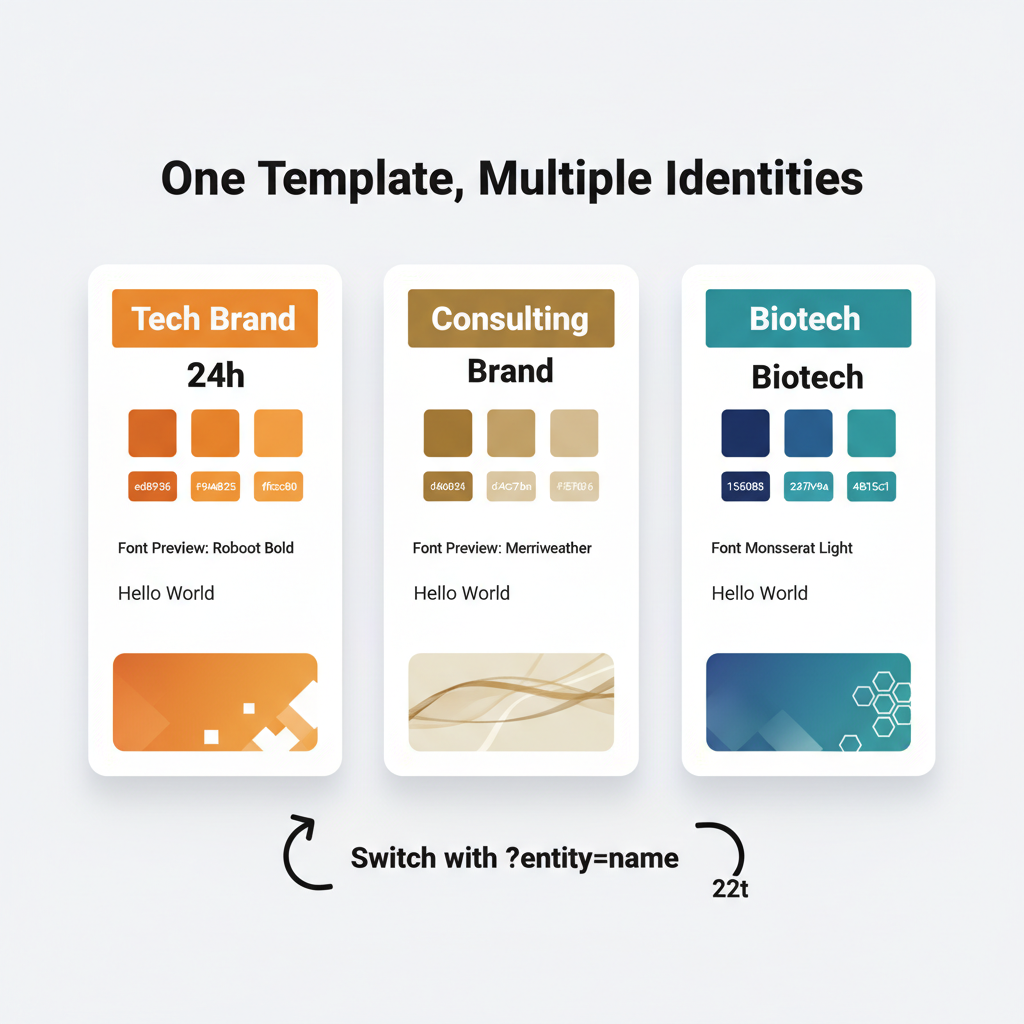
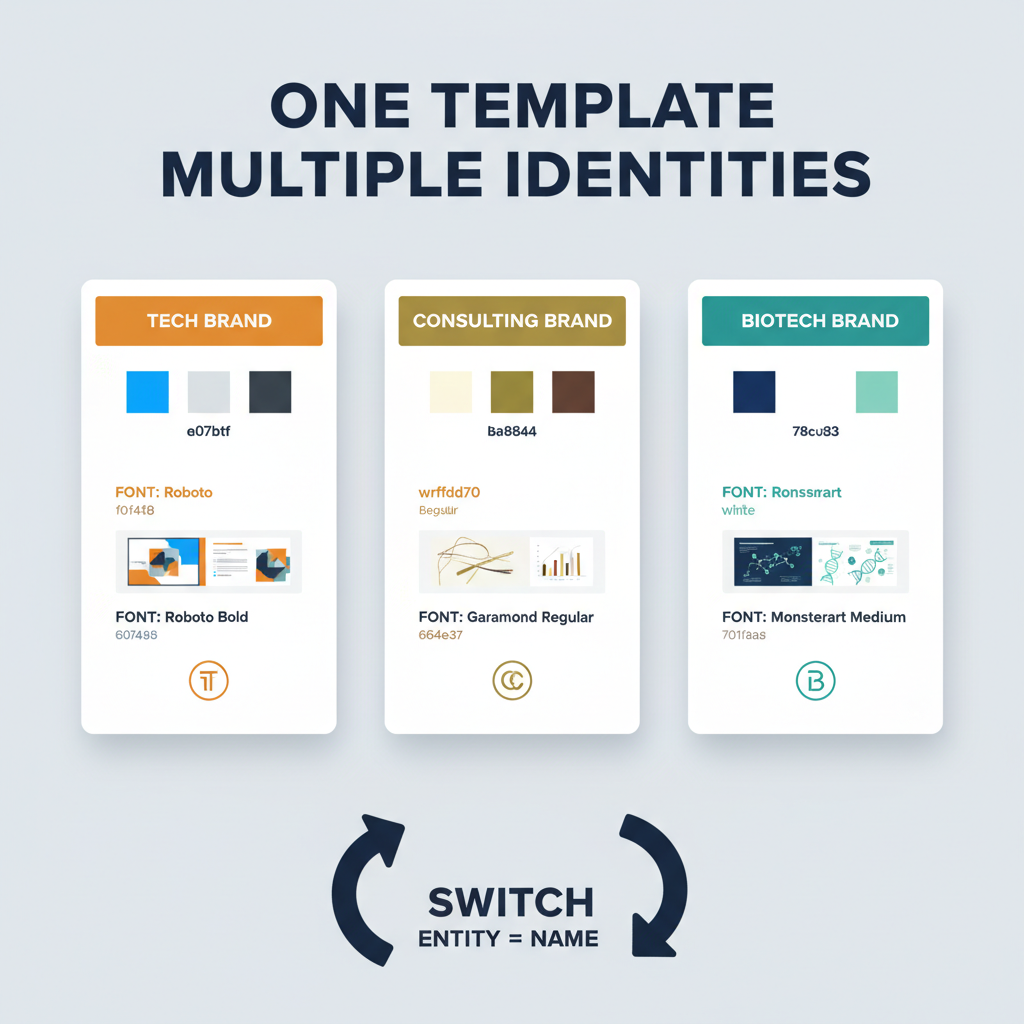
Add AI-generated images to skill-demo deck
- Add .env to gitignore for local API keys
- Regenerate workflow-diagram.png and brand-system.png
- Add "How It Works" slide with workflow diagram
- Add "Brand System" slide with multi-brand infographic

🤖 Generated with [Claude Code](https://claude.com/claude-code)

Changed region(s): [[0.0625, 0.25, 0.75, 0.9375], [0.625, 0.25, 0.9375, 0.8125], [0.1562, 0.0625, 0.875, 0.2188]]

diff --git a/decks/skill-demo/index.html b/decks/skill-demo/index.html
@@ -654,6 +654,22 @@
         </div>
       </section>
 
+      <section class="slide theme-ivory" data-title="How It Works">
+        <div class="slide-inner">
+          <h2 class="section-title reveal" style="--reveal-index: 1">How It Works</h2>
+          <p class="body-text reveal" style="--reveal-index: 2">From zero to presentation in minutes, with AI-generated visuals.</p>
+          <img class="reveal" style="--reveal-index: 3; width: 100%; max-height: 320px; object-fit: contain; border-radius: 16px;" src="resources/assets/workflow-diagram.png" alt="Workflow: Create, Design, Generate, Present" />
+        </div>
+      </section>
+
+      <section class="slide theme-ivory" data-title="Brand System">
+        <div class="slide-inner">
+          <h2 class="section-title reveal" style="--reveal-index: 1">Multi-Brand System</h2>
+          <p class="body-text reveal" style="--reveal-index: 2">One template, multiple visual identities. Switch with <code>?entity=name</code></p>
+          <img class="reveal" style="--reveal-index: 3; width: 100%; max-height: 380px; object-fit: contain; border-radius: 16px;" src="resources/assets/brand-system.png" alt="Three brand identity cards: Tech, Consulting, Biotech" />
+        </div>
+      </section>
+
       <section class="slide theme-ivory" data-title="Agenda">
         <div class="slide-inner layout-split">
           <div>
